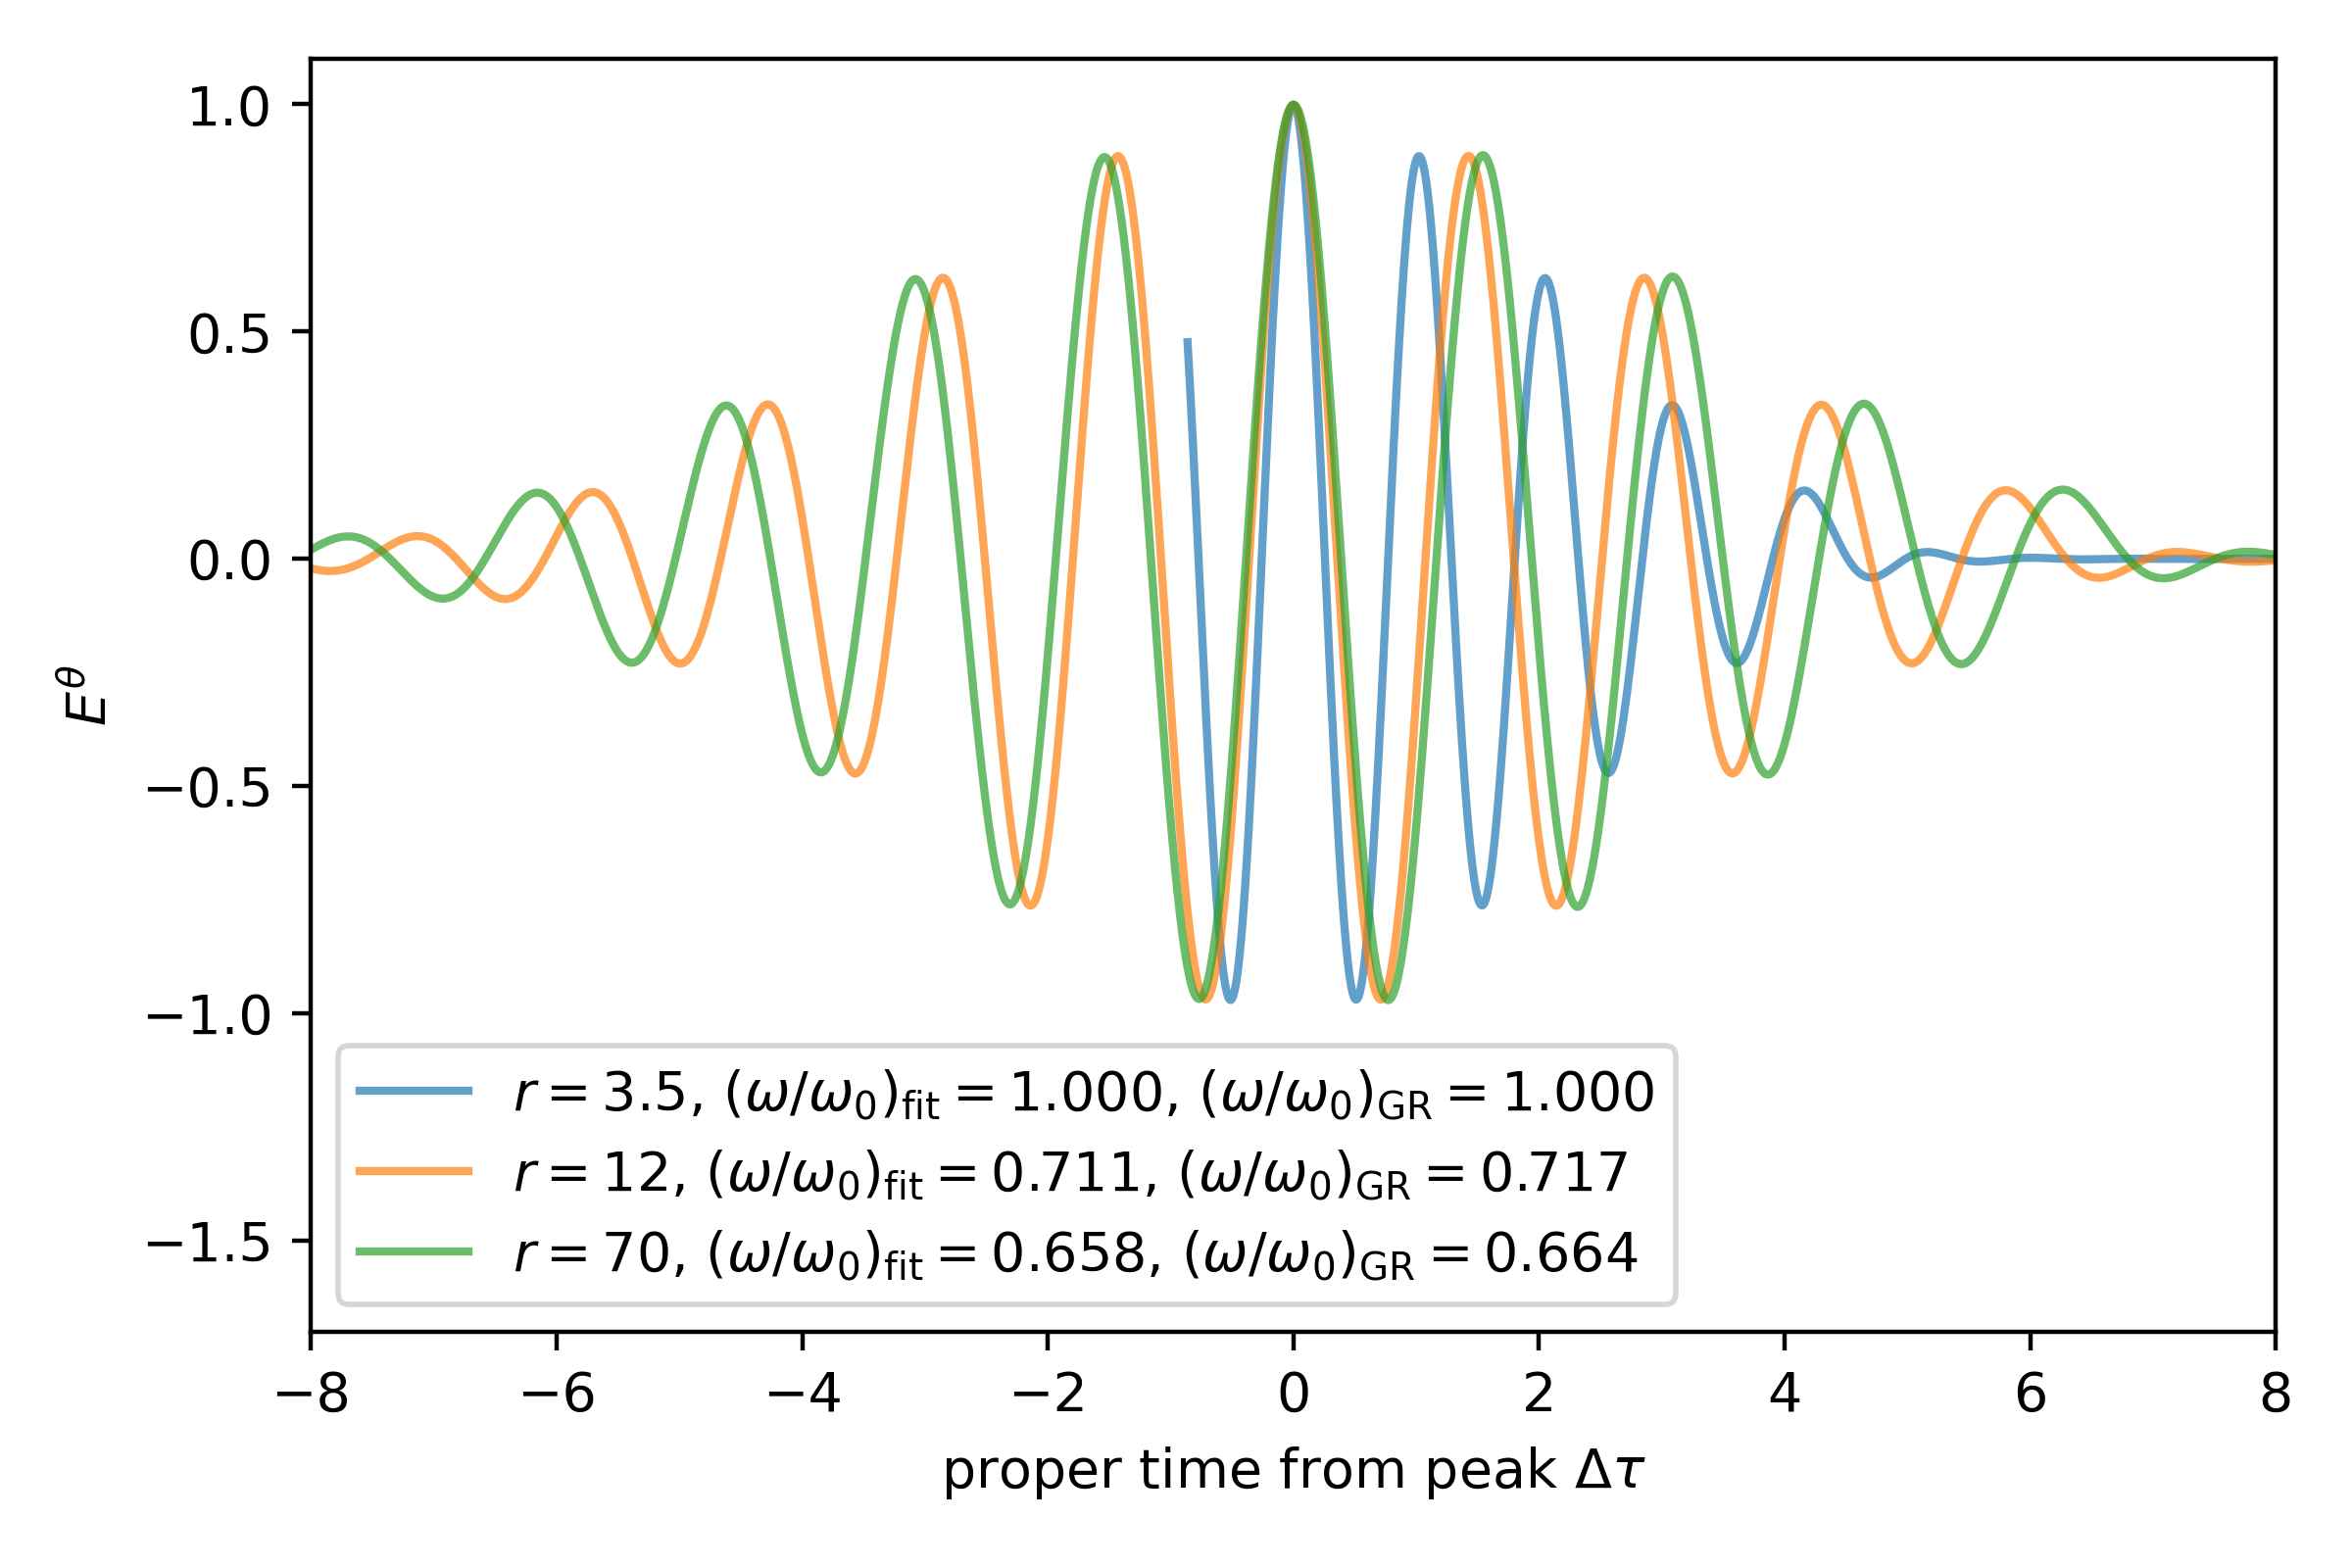
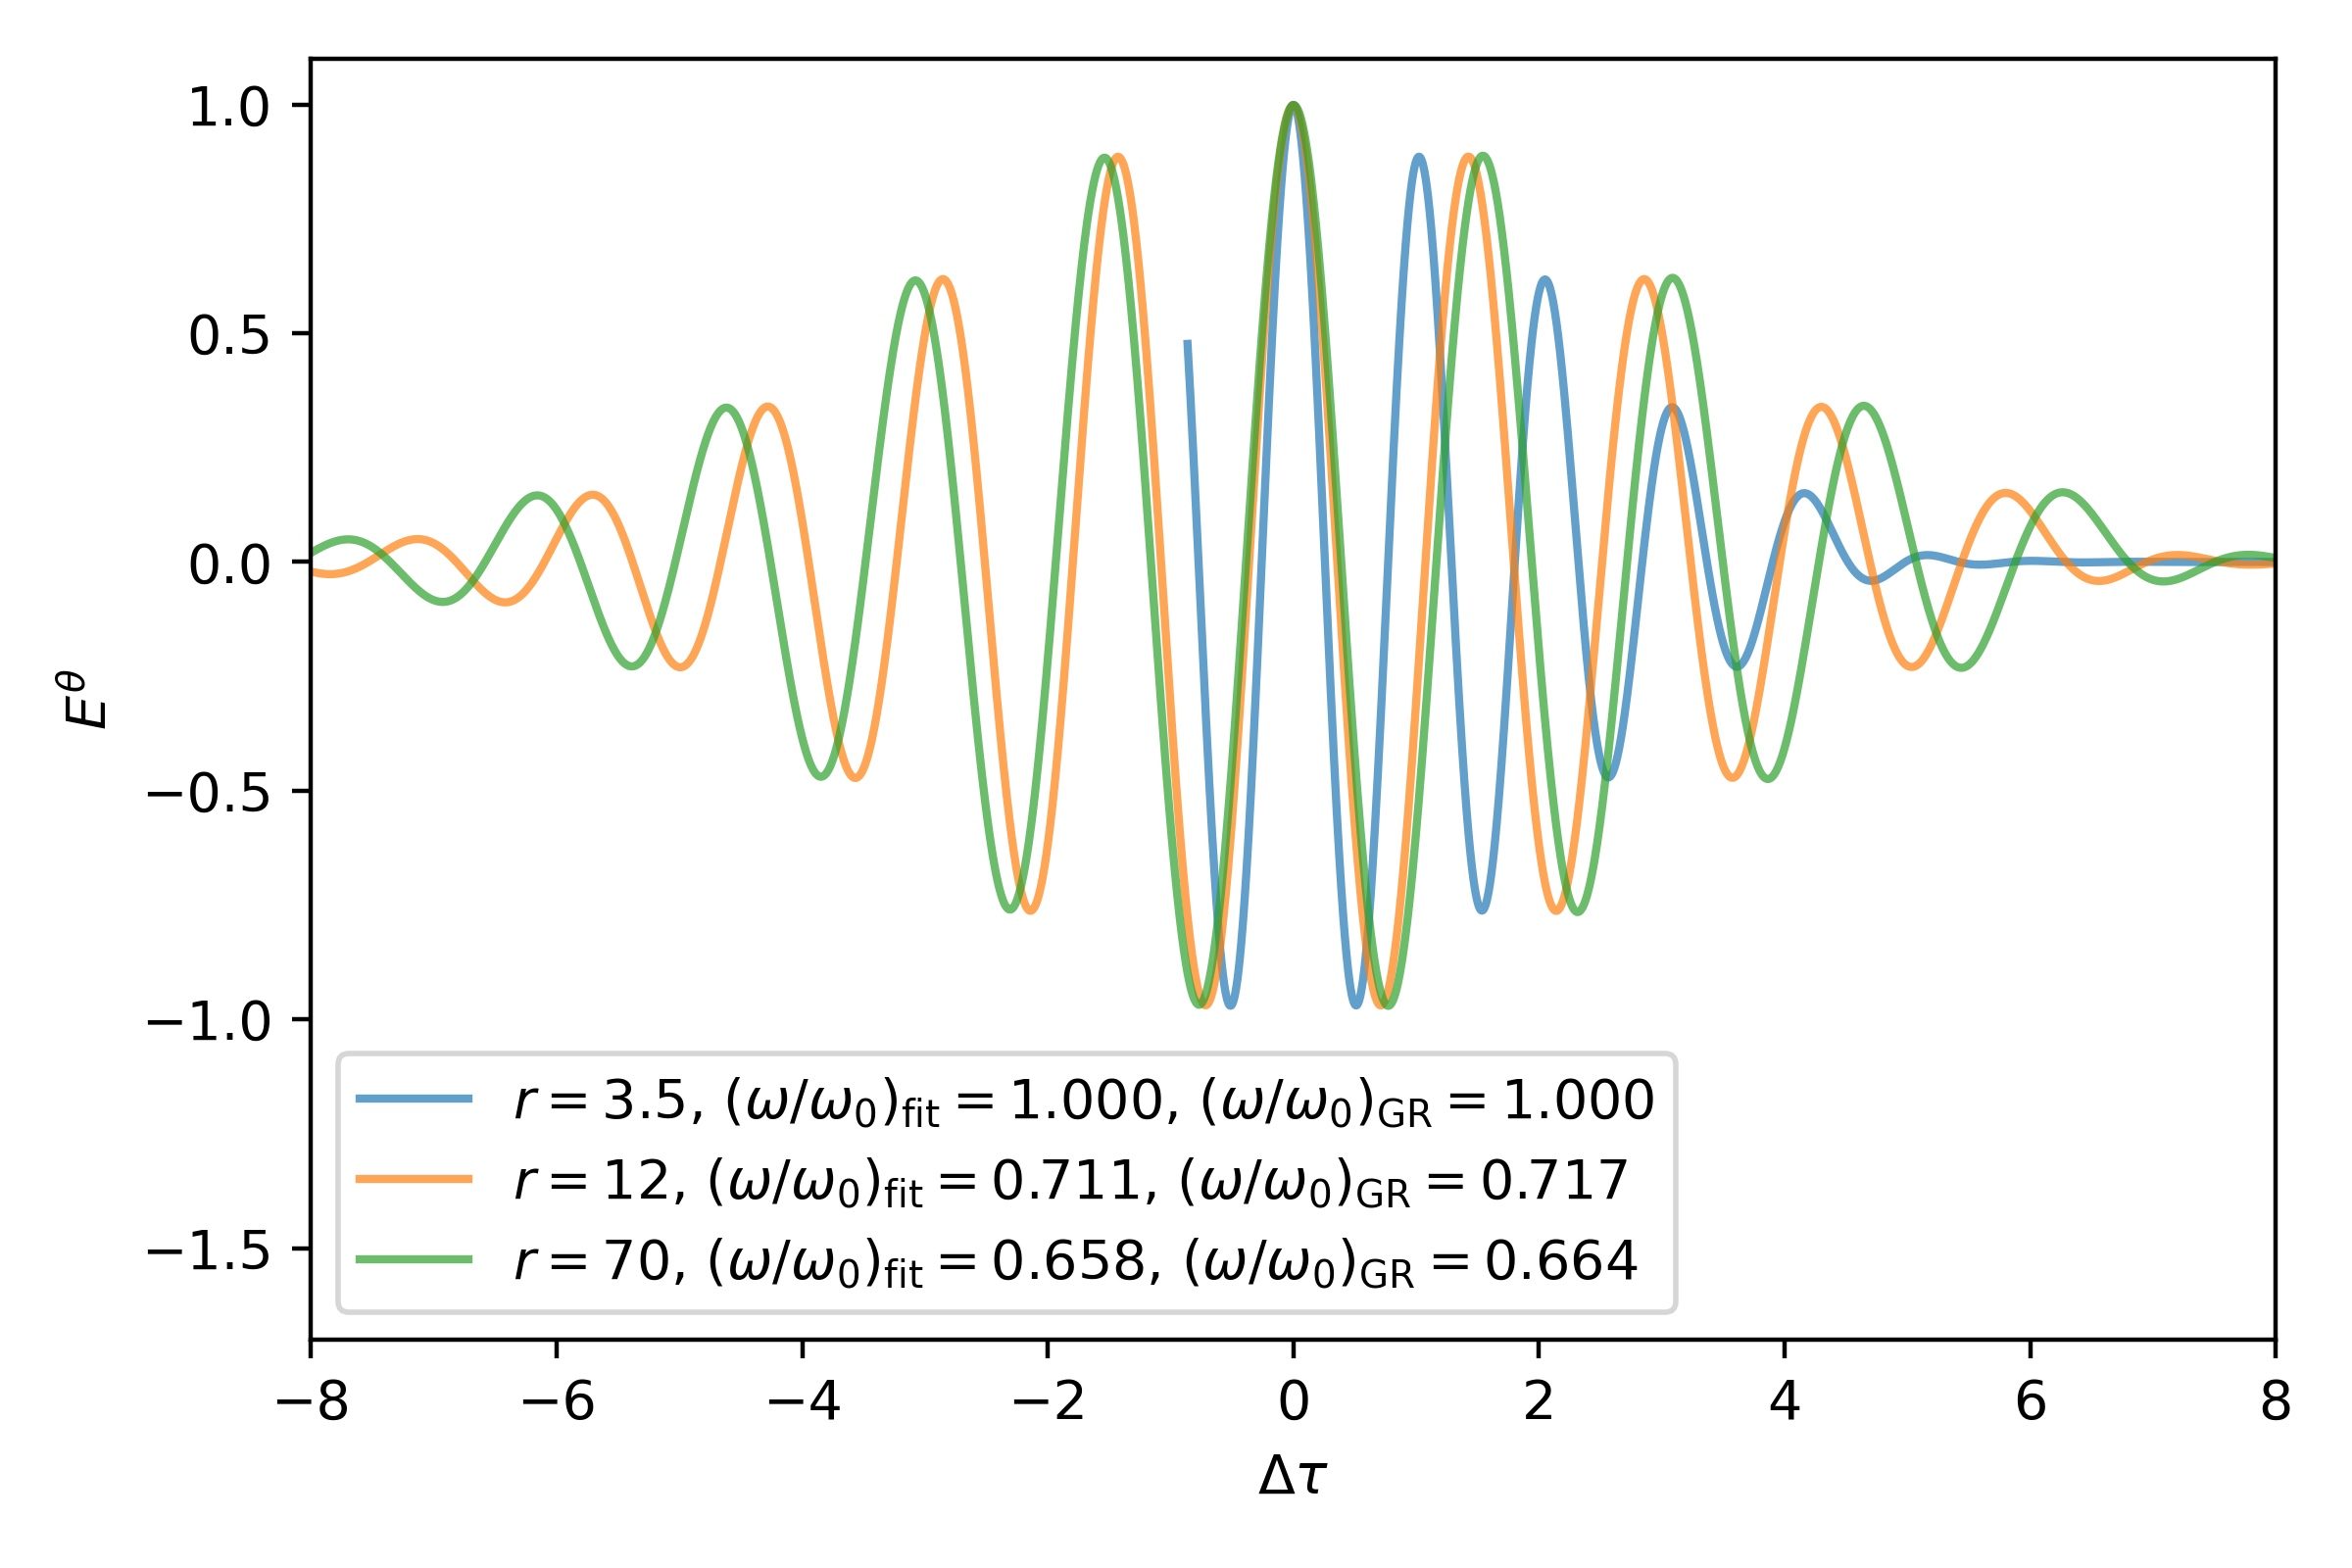
Formatting and small changes.

diff --git a/report/main.tex b/report/main.tex
@@ -24,16 +24,18 @@
 
 \begin{document}
 
-\title{\vspace{-30pt}\fontfamily{lmr} \Huge  Analysis of Particle Kinetics in Curved Space-time}
+% \title{\vspace{-30pt}\fontfamily{lmr} \Huge  Analysis of Particle Kinetics in Curved Space-time}
+\title{Analysis of Particle Kinetics in Curved Space-time}
 
-\author{\Large Olaf Willocx, Lars Meulenijzer, Areen Raj}
+% \author{\Large Olaf Willocx, Lars Meulenijzer, Areen Raj}
+\author{Lars Meulenijzer, Areen Raj, Olaf Willocx}
 \date{2026}
 
 \maketitle
 
 \begin{center} 
 \vspace{-15pt}
-\Large \textit{Selected Topics in Mathematics II\textnormal{ (G0L86A), KU Leuven}}
+\Large \textit{Selected Topics in Mathematics II\textnormal{ (G0L86A), KU Leuven, 2026}}
 \end{center}
 
 
@@ -76,7 +78,7 @@ Here $\tau$ is the proper time along the geodesic, $\Gamma^\rho_{\mu\nu}$ are th
 where $\epsilon = 0$ for massless particles and $\epsilon = 1$ for massive particles. The electric and magnetic fields are related to the electromagnetic field tensor by $D^i = \alpha F^{0i}$ and $B^i = \frac{1}{2}\sqrt{\gamma}^{-1}\varepsilon^{ijk}F_{jk}$.
 
 
-\section{Kerr spacetime in Boyer-Lindquist coordinates}
+\subsection{Kerr spacetime in Boyer-Lindquist coordinates}
 
 The Kerr metric describes a rotating black hole in general relativity. Let $a=J/M$ be the Kerr parameter for angular momentum $J$ and mass $M$. In Boyer-Lindquist coordinates, the metric can be written as
 \begin{equation}
@@ -114,10 +116,10 @@ We calculate analytical expressions for the 3+1 split of this metric, as well as
 
 \subsection{Electromagnetic waves in curved spacetime}
 
-We will show two aspects of electromagnetic waves in curved spacetime:
+We will show two aspects of electromagnetic waves in curved spacetimes with a $\partial_t$ Killing vector, since they are useful to test a Maxwell solver:
 \begin{itemize}
-  \item The redshift is the lapse function ratio between points of emission and observation.
   \item The amplitude of \textit{divergenceless} plane waves is fixed, other than due to lensing effects.
+  \item The redshift is the lapse function ratio between points of emission and observation.
 \end{itemize}
 
 \noindent
@@ -130,23 +132,27 @@ Expanding, we find
 \end{align}
 Due to the aformentioned WKB-approximation then,
 \begin{align}
-  0&=\nabla^\mu\theta\nabla_\mu\theta\text{ and separately}\\
+  0&=\nabla^\mu\phi\nabla_\mu\phi\text{ and separately}\\
   0&=2\nabla^\mu\overline\psi\nabla_\mu\phi+\overline\psi\nabla^\mu\nabla_\mu\phi=\nabla^\mu(\overline\psi^2\nabla_\mu\theta).
 \end{align}
 Both are equations from optics: an eikonal equation, and the amplitude transport equation.
 If furthermore the wave is divergenceless, if $\nabla^\mu\nabla_\mu\phi=0$, then $\nabla^\mu\phi\nabla_\mu\overline\psi=0$.
 That is, the amplitude is fixed moving with the wave, and $\overline\psi$ only changes due to lensing.
+It follows also that $\nabla^\mu\phi\nabla_\mu\nabla_\nu\phi=0$, which has the form of the geodesic equation.
+Due to the eikonal equation then, $\nabla^\mu\phi$ follows in particular the \textit{null} geodesics, together with $dx^\mu/d\lambda$.
 
 \noindent
 Take again this plane wave $\psi$.
 We may sensibly define the local frequency to be $\omega$ such that $\partial_\tau\psi=i\omega\psi$.
-which means $\omega=-\partial_\tau\theta$ under the WKB approximation.
+which means $\omega=\partial_\tau\phi$ under the WKB approximation.
 Now the Eulerian observer in the ADM split by definition moves as $\partial_\tau x^\mu=n^\mu$, with $n_\mu=(-\alpha,\mathbf0)$.
 Plugging this in gives $d\tau=\alpha dt$.
-So $\omega=-\alpha^{-1}\partial_t\theta$.
-Consider now the same wave measured at two different times $t$, its redshift will be the ratio of $\alpha$'s.
+So $\omega=\alpha^{-1}\partial_t\phi$.
+With the Killing vector $\xi=\partial_t$, $\xi_\mu dx^\mu/d\lambda$ is fixed along geodesic.
+But we showed these WKB modes follow null geodesics, so $\xi_\mu\nabla^\mu\phi=\partial_t\phi$ is fixed along geodesics.
+So in $\omega$, only $\alpha$ is responsible for the redshift.
 
-\section{Analytical solution to the Maxwell equations}
+\subsection{An analytical solution}
 
 We consider the Maxwell equations in curved spacetime \cite{Alcubierre2009} without sources ($j^\mu = 0$) and with the spacetime background
 \begin{equation}
@@ -179,7 +185,7 @@ As an example, we consider $\Phi = -a \exp{(-x^2/2)}$. $\Phi$ cannot become smal
 
 \begin{figure}[ht!]
     \centering
-    \includegraphics[width=\hsize]{figures/gravitational_redshift.png}
+    \includegraphics[width=.8\hsize]{figures/gravitational_redshift.png}
     \caption{The gravitational potential $\Phi = -a \exp{(-x^2/2)}$ with $a = 0.45$ and the corresponding electric field strength at some fixed moment in time. The frequency of the wave is $\omega = 10$ (the units of which are fixed by the units of $x$ and the speed of light).}
     \label{fig:gravitational_redshift}
 \end{figure}
@@ -213,75 +219,10 @@ and the wavepacket not posessing a fully definite wavelength.
 
 \begin{figure}
   \centering
-  \includegraphics[width=.6\linewidth]{figures/GR_redshift_probe_omega.png}
+  \includegraphics[width=.5\linewidth]{figures/GR_redshift_probe_omega.png}
   \caption{Superimposed profiles of the same wavepacket measured by different observers at different times, comparing measured and predicted redshift. Notice also the fixed amplitude. Set up along a thin flux tube in a Schwarzschild spacetime. Here $r_\text S=2$.}
   \label{fig:redshift}
 \end{figure}
-
-\section{Two-stream instability in curved spacetime}
-
-We consider a cold two-stream instability in a diagonal metric, where the streams are moving in the $x_1$-direction with velocities $v_0$ and $-v_0$. At each point, local coordinates $\tilde{t} = \sqrt{-g_{00}} t$ and $\tilde{x}_1 = \sqrt{g_{11}} x_1$ can be chosen so that, in the frame of these local coordinates, spacetime is locally flat. At every point in spacetime, the physics in local coordinates should be the same. In local coordinates, the two-stream instability reduces to the two-stream instability from special relativity. From the perspective of an observer at infinity, the speed of the flow of time at the point $x_\mu$ is altered by a factor $\sqrt{-g_{00}(x_\mu)}$. This effect is gravitational time dilation, and it alters the speed at which instabilities in the two-stream instability grow. We consider the case of a Schwarzschild black hole, for which $\sqrt{-g_{00}} = \sqrt{1 - 2GM/r}$. The closer to the black hole we look, the slower the two-stream instability grows. We assume that the length scale at which the two-stream instability occurs is much smaller than the length scale on which the spacetime metric changes.\\
-\\
-In the local coordinates, the instability occurs at wave numbers $\tilde{k} = k / \sqrt{g_{11}}$ for which $\tilde{k}^2\tilde{v}_0^2\tilde\gamma_0^3 < \tilde\omega_{p,0}^2$. Here $\tilde{v}_0 = v_0 \sqrt{g_{11}/g_{00}}$ is the speed of the streams in local coordinates, $\tilde\gamma_0 \equiv \gamma(\tilde{v}_0)$ is the corresponding Lorentz factor, and $\tilde\omega_{p,0} = \omega_{p,0}\sqrt{g_{00}}$ is the plasma frequency in local coordinates. From this, we can find an expression for the critical wave number $k_\text{crit}$ in global coordinates: $k^2_\text{crit} v_0^2 \tilde{\gamma}_0^3 = \omega_{p,0}^2$. This equation shows that the curved spacetime only alters the critical wave number through the Lorentz factor. The expression for the critical wave number is altered by a factor $\tilde{\gamma}_0^3 / \gamma_0^3 = \sqrt{1 - v_0^2} / \sqrt{1 - \frac{g_{11}}{-g_{00}} v_0^2}$ compared to the case in flat spacetime. In Figure \ref{fig:k_crit_modification}, the modifying factor $\tilde{\gamma}_0^3 / \gamma_0^3$ is plotted for several values of $v_0$. The presence of the black hole increases $k_\text{crit}$, allowing the instability to occur at smaller length scales than it would in flat spacetime. Both going closer to the black hole and having a larger speed $v_0$ cause a decrease in the factor $\tilde{\gamma}_0^3 / \gamma_0^3$. Figure \ref{fig:k_crit_modification} shows that, for every speed $v_0$, there is a radial distance $r$ at which the modification factor reaches zero. Below that distance, the speed $v_0$ becomes nonphysical, because $\tilde{v}_0$ exceeds the speed of light. This is demonstrated in Figure \ref{fig:accessible_region}, which shows the region of phase space that is accessible by massive particles moving on radial trajectories.\\
-
-\begin{figure}[ht!]
-\centering
-\begin{minipage}{.48\textwidth}
-  \centering
-  \includegraphics[width=\linewidth]{figures/k_crit_modification.png}
-  \caption{The factor $\tilde{\gamma}_0^3 / \gamma_0^3$ near a Schwarzschild black hole as a function of the radial coordinate, for several values of the speed $v_0$.\\\,\\\,}
-  \label{fig:k_crit_modification}
-\end{minipage}%
-\quad
-\begin{minipage}{.48\textwidth}
-  \centering
-  \includegraphics[width=\linewidth]{figures/accessible_region.png}
-  \caption{The accessible region of the radial part of phase space near a Schwarzschild black hole, shown as a blue region. The grey curves are geodesics of massive particles moving radially away from and towards the black hole.}
-  \label{fig:accessible_region}
-\end{minipage}
-\end{figure}
-
-\noindent
-As the two-stream instability evolves, the gravity of the black hole will cause the speed and density of both streams to change. In general, it will no longer be true that the two streams have the same speed (in absolute values). At each position $x_\mu$, it will still be possible to change to a frame of reference where the streams have speeds $v_0$ and $-v_0$, but in general the densities of the streams will still be different. As a result, the two-stream instability will no longer adhere to the formula $\tilde{k}^2_\text{crit} \tilde{v}_0^2 \tilde{\gamma}_0^3 = \tilde{\omega}_{p,0}^2$.
-
-
-% olaf: Some brainstorming:
-
-% \section*{Conventions}
-% (metric signature)
-% (electromagnetic conventions)
-% \section*{Geodesics}
-% (affine: k_\nu\nabla^\nu k^\mu=0)
-% \subsection*{Fermion-electromagnetic deviations}
-% (affine: k_\nu\nabla^\nu k^\mu=a_\perp^mu)
-% \section*{Particle dynamics in curved spacetimes}
-% \subsection*{Kerr spacetimes}
-% \subsubsection*{Lightlike orbits}
-% \subsubsection*{Timelike orbits}
-% \subsubsection*{Timelike magnetically perturbed orbits}
-% (In a homogeneous magnetic field?)
-% (At the edge of some dipole field from a nearby neutron star?)
-% \section*{Geodesic numerics}
-% (Relevance of the parameterization?)
-% (Will non-affine parameterizations be necessary? Then the theory must be more general.)
-% (Coordinate singularity concerns?)
-% (Is symplectomorphic integration desirable?)
-% (Or exact energy conserving implicit?)
-% (Or time-adaptive and not care?)
-% \subsection*{Kerr spacetime}
-% \subsubsection*{Lightlike orbits}
-% (comparison with analytical)
-% (render black hole accretion disk or so?)
-% \subsubsection*{Timelike orbits}
-% (comparison with analytical)
-% \subsubsection*{Timelike magnetically perturbed orbits}
-% \section*{Electrostatic ${1+1}$ particle-in-cell}
-% (numerical details)
-% (implementation details)
-% \subsection*{$2$-stream instability in Kerr spacetime}
-% (Should see electron holes.)
-% (What else do we expect, how will it differ?)
-% (I suppose this is like an AGN/quasar jet model.)
 
 \section{Particle Trajectories in Curved Spacetime}
 We can analyze the particle trajectories of neutral and charged particles in curved-spacetime using both analytical and numerical approaches. This section will present the numerical implementation of a particle pusher that can solve for these trajectories. While doing so, we will also present validations of these numerical trajectories against both analytical results and established literature - for the case of a Kerr Black Hole and the Wald Solution. The first points for our analysis are the definitions of the four-velocity and the geodesic equations introduced earlier,
@@ -296,7 +237,8 @@ We can analyze the particle trajectories of neutral and charged particles in cur
     \label{eq:geodesicEinsteinNotation}
 \end{equation}
 
-Given the starting position and velocity of the particle, we can construct an initial-value problem from this system of equations - which can then be discretized and numerically integrated in time. In our case, we use simple iterative solvers to step the system forward in coordinate time. The two schemes used are the Runge-Kutta 4 (RK4) and the Implicit Midpoint Rule (IMR) methods. The RK4 scheme is inherently explicit and can easily be implemented to get the new state of the particle from its initial one. Canonically, the IMR is an implicit formulation that would need to be solved using a Newton method with the construction of a Jacobian at each step. This can be bypassed by employing fixed-point iterations that attempt to approximate the IMR solution to some convergence threshold $\epsilon_\mathrm{tol}$ - given by Algorithm\,\,\ref{alg:IMR_fixed_point}.
+Given the starting position and velocity of the particle, we can construct an initial-value problem from this system of equations - which can then be discretized and numerically integrated in time. In our case, we use simple iterative solvers to step the system forward in coordinate time. The two schemes used are the Runge-Kutta 4 (RK4) and the sympletic Implicit Midpoint Rule (IMR) methods. The RK4 scheme is inherently explicit and can easily be implemented to get the new state of the particle from its initial one. Canonically, the IMR is an implicit formulation that would need to be solved using a Newton method with the construction of a Jacobian at each step. This can be bypassed by employing fixed-point iterations that attempt to approximate the IMR solution to some convergence threshold $\epsilon_\mathrm{tol}$.
+% - given by Algorithm\,\,\ref{alg:IMR_fixed_point}.
 
 Rewriting the system as $\dot{\bm{y}} = f(\bm{y})$, the description of the IMR scheme in coordinate time is given by,
 
@@ -304,7 +246,8 @@ Rewriting the system as $\dot{\bm{y}} = f(\bm{y})$, the description of the IMR s
     \bm{y}^{n+1} = \bm{y}^n + \Delta t\, f\!\left(\frac{\bm{y}^n + \bm{y}^{n+1}}{2}\right),
 \end{equation}
 
-Here, $\bm{y}^n$ is the state of the particle at the current timestep and $\Delta t$ represents the time step size in use.\medskip
+Here $\bm{y}^n$ can be the full state $([x^i]^n,[u_i]^n)$, or more typically we solve by leapfrogging, first $[u_i]^{n-1/2}$ then $[x^i]^{n}$.\medskip
+% Here, $\bm{y}^n$ is the state of the particle at the current timestep and $\Delta t$ represents the time step size in use.\medskip
 
 \begin{algorithm}[h]
 \caption{IMR fixed-point iteration}
@@ -333,17 +276,17 @@ where $D^i$ and $B^i$ are the electromagnetic field variables and $e_{ijk} = \va
     \alpha D^i = \gamma^{ij}\left(F_{j0} - e_{jkl}\beta^k B^l\right), \qquad B^i = \frac{1}{2}e^{ijk}F_{jk}.
 \end{equation}
 
-In terms of numerical implementation, the electromagnetic terms are added to the RHS function in - $\dot{\bm{y}} = f(\bm{y})$ - while constructing the time stepper. 
+We fully derived these 5 terms also.
+In terms of numerical implementation, the electromagnetic terms are added to the RHS function in - $\dot{\bm{y}} = f(\bm{y})$. 
 
 \subsection{Kerr Spacetime}
 Such a particle pusher can be used to reproduce trajectories around compact objects such as a Kerr black hole - for which analytical solutions are available through reparametrization. We work in Boyer-Lindquist coordinates with $G=c=1$, using the standard notation $\Sigma = r^2 + a^2\cos^2\theta$, $\Delta = r^2 - 2Mr + a^2$, where $M$ and $a$ are the mass and black hole spin. We consider only orbits outside the outer event horizon $r_+$. Defining $u = \cos\theta$ as the latitudinal coordinate and $\mu$ as the four-velocity parametrization ($1$ for massive and $0$ for massless), the geodesic equations parameterized by proper time $\tau$ are
 
-\begin{subequations} \label{eq:geodesic_equations}
-\begin{align}
-   \Sigma\frac{dr}{d\tau} &= \pm\sqrt{R(r)} \\
-   \Sigma\frac{du}{d\tau} &= \pm\sqrt{V(u)}
-\end{align}
-\end{subequations}
+\begin{equation}
+  \label{eq:geodesic_equations}
+   \Sigma\frac{dr}{d\tau} = \pm\sqrt{R(r)},\quad\quad
+   \Sigma\frac{du}{d\tau} = \pm\sqrt{V(u)}
+\end{equation}
 
 where,
 
@@ -375,7 +318,7 @@ Hence, we have to look for ranges of the latitudinal variable, $u$, such that th
 
 \textbf{Mino Time.} The coupled geodesic equations (\eqref{eq:geodesic_equations}) can be separated by introducing a new parameter - Mino time - via $\Sigma\,d/d\tau = d/d\lambda$. This allows us to derive analytic solutions describing the particle solutions \cite{teoTimelikeSpherical}. These analytical solutions have been compared against our particle pusher for the case of a massive particle in extremal Kerr spacetime ($a=M=1$). The spherical orbit is located at $r/M=1.2$ with Carter constant $Q/M^2=0.5$. These parameters yield $E=0.7169$ and $\Phi/M=1.4357$. Both the analytical trajectory and the numerical curve are shown in Figure~\ref{fig:spherical_orbit_3d}, integrated with coordinate-time step $\Delta t = 0.05\,M$. We see that the IMR scheme is able to reproduce the latitudinal oscillations quite effectively with the maximum RMS error for $\theta$ being $3.81\times 10^{-6}$ radians.
 
-\begin{figure}[H]
+\begin{figure}[h]
     \centering
     \includegraphics[width=0.55\linewidth]{figures/spherical_orbit_3d.png}
     \caption{Spherical orbit at $r/M=1.2$ in extremal Kerr spacetime ($a=M=1$, $Q/M^2=0.5$). Gold: analytical solution via Mino-time. Magenta (dashed): IMR numerical integration.}
@@ -401,7 +344,33 @@ Hence, we have to look for ranges of the latitudinal variable, $u$, such that th
 
 As a validation for the charged-particle pusher, we reproduce the RKA3 orbit of the Wald Solution described in \cite{Bacchini_2019}: for a massive particle with $q/m=1$ in near-extremal Kerr spacetime ($a=0.9\,M$). The top panel of Figure~\ref{fig:wald_3d} shows the 3D trajectories integrated with RK4 and IMR over $t=1000\,M$ with coordinate-time step $\Delta t = 1.0\,M$. The RK4 orbit undergoes unphysical energy dissipation, causing the gyration to damp and eventually stop. While the IMR scheme preserves the gyration throughout - due to its symplectic nature. The results show qualitative agreement with Bacchini et. al, 2019 (bottom panel).
 
-\section{Vlasov-Poisson PIC 2-stream instability in a thin Schwarzschild flux tube}
+\section{Two-stream instability in curved spacetime}
+
+We consider a cold two-stream instability in a diagonal metric, where the streams are moving in the $x_1$-direction with velocities $v_0$ and $-v_0$. At each point, local coordinates $\tilde{t} = \sqrt{-g_{00}} t$ and $\tilde{x}_1 = \sqrt{g_{11}} x_1$ can be chosen so that, in the frame of these local coordinates, spacetime is locally flat. At every point in spacetime, the physics in local coordinates should be the same. In local coordinates, the two-stream instability reduces to the two-stream instability from special relativity. From the perspective of an observer at infinity, the speed of the flow of time at the point $x_\mu$ is altered by a factor $\sqrt{-g_{00}(x_\mu)}$. This effect is gravitational time dilation, and it alters the speed at which instabilities in the two-stream instability grow. We consider the case of a Schwarzschild black hole, for which $\sqrt{-g_{00}} = \sqrt{1 - 2GM/r}$. The closer to the black hole we look, the slower the two-stream instability grows. We assume that the length scale at which the two-stream instability occurs is much smaller than the length scale on which the spacetime metric changes.\\
+\\
+In the local coordinates, the instability occurs at wave numbers $\tilde{k} = k / \sqrt{g_{11}}$ for which $\tilde{k}^2\tilde{v}_0^2\tilde\gamma_0^3 < \tilde\omega_{p,0}^2$. Here $\tilde{v}_0 = v_0 \sqrt{g_{11}/g_{00}}$ is the speed of the streams in local coordinates, $\tilde\gamma_0 \equiv \gamma(\tilde{v}_0)$ is the corresponding Lorentz factor, and $\tilde\omega_{p,0} = \omega_{p,0}\sqrt{g_{00}}$ is the plasma frequency in local coordinates. From this, we can find an expression for the critical wave number $k_\text{crit}$ in global coordinates: $k^2_\text{crit} v_0^2 \tilde{\gamma}_0^3 = \omega_{p,0}^2$. This equation shows that the curved spacetime only alters the critical wave number through the Lorentz factor. The expression for the critical wave number is altered by a factor $\tilde{\gamma}_0^3 / \gamma_0^3 = \sqrt{1 - v_0^2} / \sqrt{1 - \frac{g_{11}}{-g_{00}} v_0^2}$ compared to the case in flat spacetime. In Figure \ref{fig:k_crit_modification}, the modifying factor $\tilde{\gamma}_0^3 / \gamma_0^3$ is plotted for several values of $v_0$. The presence of the black hole increases $k_\text{crit}$, allowing the instability to occur at smaller length scales than it would in flat spacetime. Both going closer to the black hole and having a larger speed $v_0$ cause a decrease in the factor $\tilde{\gamma}_0^3 / \gamma_0^3$. Figure \ref{fig:k_crit_modification} shows that, for every speed $v_0$, there is a radial distance $r$ at which the modification factor reaches zero. Below that distance, the speed $v_0$ becomes nonphysical, because $\tilde{v}_0$ exceeds the speed of light. This is demonstrated in Figure \ref{fig:accessible_region}, which shows the region of phase space that is accessible by massive particles moving on radial trajectories.\\
+
+\begin{figure}[ht!]
+\centering
+\begin{minipage}{.40\textwidth}
+  \centering
+  \includegraphics[width=\linewidth]{figures/k_crit_modification.png}
+  \caption{The factor $\tilde{\gamma}_0^3 / \gamma_0^3$ near a Schwarzschild black hole as a function of the radial coordinate, for several values of the speed $v_0$.\\\,\\\,}
+  \label{fig:k_crit_modification}
+\end{minipage}%
+\quad
+\begin{minipage}{.40\textwidth}
+  \centering
+  \includegraphics[width=\linewidth]{figures/accessible_region.png}
+  \caption{The accessible region of the radial part of phase space near a Schwarzschild black hole, shown as a blue region. The grey curves are geodesics of massive particles moving radially away from and towards the black hole.}
+  \label{fig:accessible_region}
+\end{minipage}
+\end{figure}
+
+\noindent
+As the two-stream instability evolves, the gravity of the black hole will cause the speed and density of both streams to change. In general, it will no longer be true that the two streams have the same speed (in absolute values). At each position $x_\mu$, it will still be possible to change to a frame of reference where the streams have speeds $v_0$ and $-v_0$, but in general the densities of the streams will still be different. As a result, the two-stream instability will no longer adhere to the formula $\tilde{k}^2_\text{crit} \tilde{v}_0^2 \tilde{\gamma}_0^3 = \tilde{\omega}_{p,0}^2$.
+
+\subsection{Vlasov-Poisson PIC, in a thin radial flux tube embedded in a Schwarzschild spacetime}
 
 Our PIC setup is again based on \cite{entity1} and \cite{entity2}.
 We have obtained satisfactory results from a 1D-1V Vlasov-Poisson PIC model, so did not opt for a 1D-3V Vlasov-Maxwell model.
@@ -434,18 +403,18 @@ Figure \ref{fig:PIC} shows a snapshot of a run.
 
 \begin{figure}[H]
   \centering
-  \begin{subfigure}{0.8\linewidth}
+  \begin{subfigure}[c]{0.64\linewidth}
     \centering
     \includegraphics[width=\linewidth]{figures/000084.png}
   \end{subfigure}
-  \vspace{0.5em}
-  \begin{subfigure}{0.6\linewidth}
+  \hfill
+  \begin{subfigure}[c]{0.35\linewidth}
     \centering
     \includegraphics[width=\linewidth]{figures/two_stream_Poisson_K.png}
   \end{subfigure}
   \caption{
     Phase portrait and Eulerian kinetic energy snapshot of a two-stream setup with $M=0.005$ and beam density $n=0.01$.
-    2048 cells with 32 p\.p\.c\., CFL number $0.2$, $10$ Picard iterations per IMR half-step.
+    2048 cells with 32 p.p.c., CFL number $0.2$, $10$ Picard iterations per IMR half-step.
     We see Maxwellian streams, where electrons and positrons electrostatically separate with some characteristic spacing.
     The streams are pulled towards the event horizon, losing particles preferentially on that side, and total kinetic energy increasing.
     We see also histograms of the net number density and net charge.
@@ -455,6 +424,7 @@ Figure \ref{fig:PIC} shows a snapshot of a run.
   \label{fig:PIC}
 \end{figure}
 
+\newpage
 \printbibliography
 
 \end{document}

diff --git a/code/two_stream_Poisson.py b/code/two_stream_Poisson.py
@@ -136,7 +136,7 @@ subprocess.run([
   str(dir_out/'two_stream_Poisson.mp4'),
 ], check=True)
 
-plt.figure(figsize=(6, 3))
+plt.figure(figsize=(4, 3))
 plt.plot(diag_time, diag_energy_kinetic, c='black')
 plt.xlim(0, t_end)
 plt.xlabel(r'$t$'); plt.ylabel(r'$K$')
@@ -144,7 +144,7 @@ plt.yscale('log')
 plt.tight_layout()
 plt.savefig(dir_out/'two_stream_Poisson_K.png', dpi=frame_dpi)
 
-plt.figure(figsize=(6, 3))
+plt.figure(figsize=(4, 3))
 plt.plot(diag_time, diag_energy_EM, c='black')
 plt.xlim(0, t_end)
 plt.xlabel(r'$t$'); plt.ylabel(r'$U_E$')

diff --git a/code/GR_redshift.py b/code/GR_redshift.py
@@ -146,7 +146,7 @@ for i, r_probe in enumerate(probe_radii):
   plt.plot(tau[keep], probe_E[keep,i], label=label, alpha=alpha)
 plt.xlim(-8, 8)
 plt.ylim(-1.7, 1.1)
-plt.xlabel(r'proper time from peak $\Delta\tau$')
+plt.xlabel(r'$\Delta\tau$')
 plt.ylabel(r'$E^\theta$')
 plt.legend(loc='lower left')
 plt.tight_layout()

diff --git a/code/Vlasov_Poisson_1d.hpp b/code/Vlasov_Poisson_1d.hpp
@@ -73,7 +73,7 @@ void deposit_charge_and_solve_Gauss
 #pragma omp parallel for schedule(static)
   for (size_t i = 0; i < grid.n_cells; i++)
     densitized_rho[i] = 0;
-  pic_1d::add_densitized_charge(
+  pic_1d::add_densitized_rho(
     grid, particles, n_particles, densitized_rho, keep);
   solve_Gauss(grid, fields, densitized_rho, D_r_flux_left);
 }